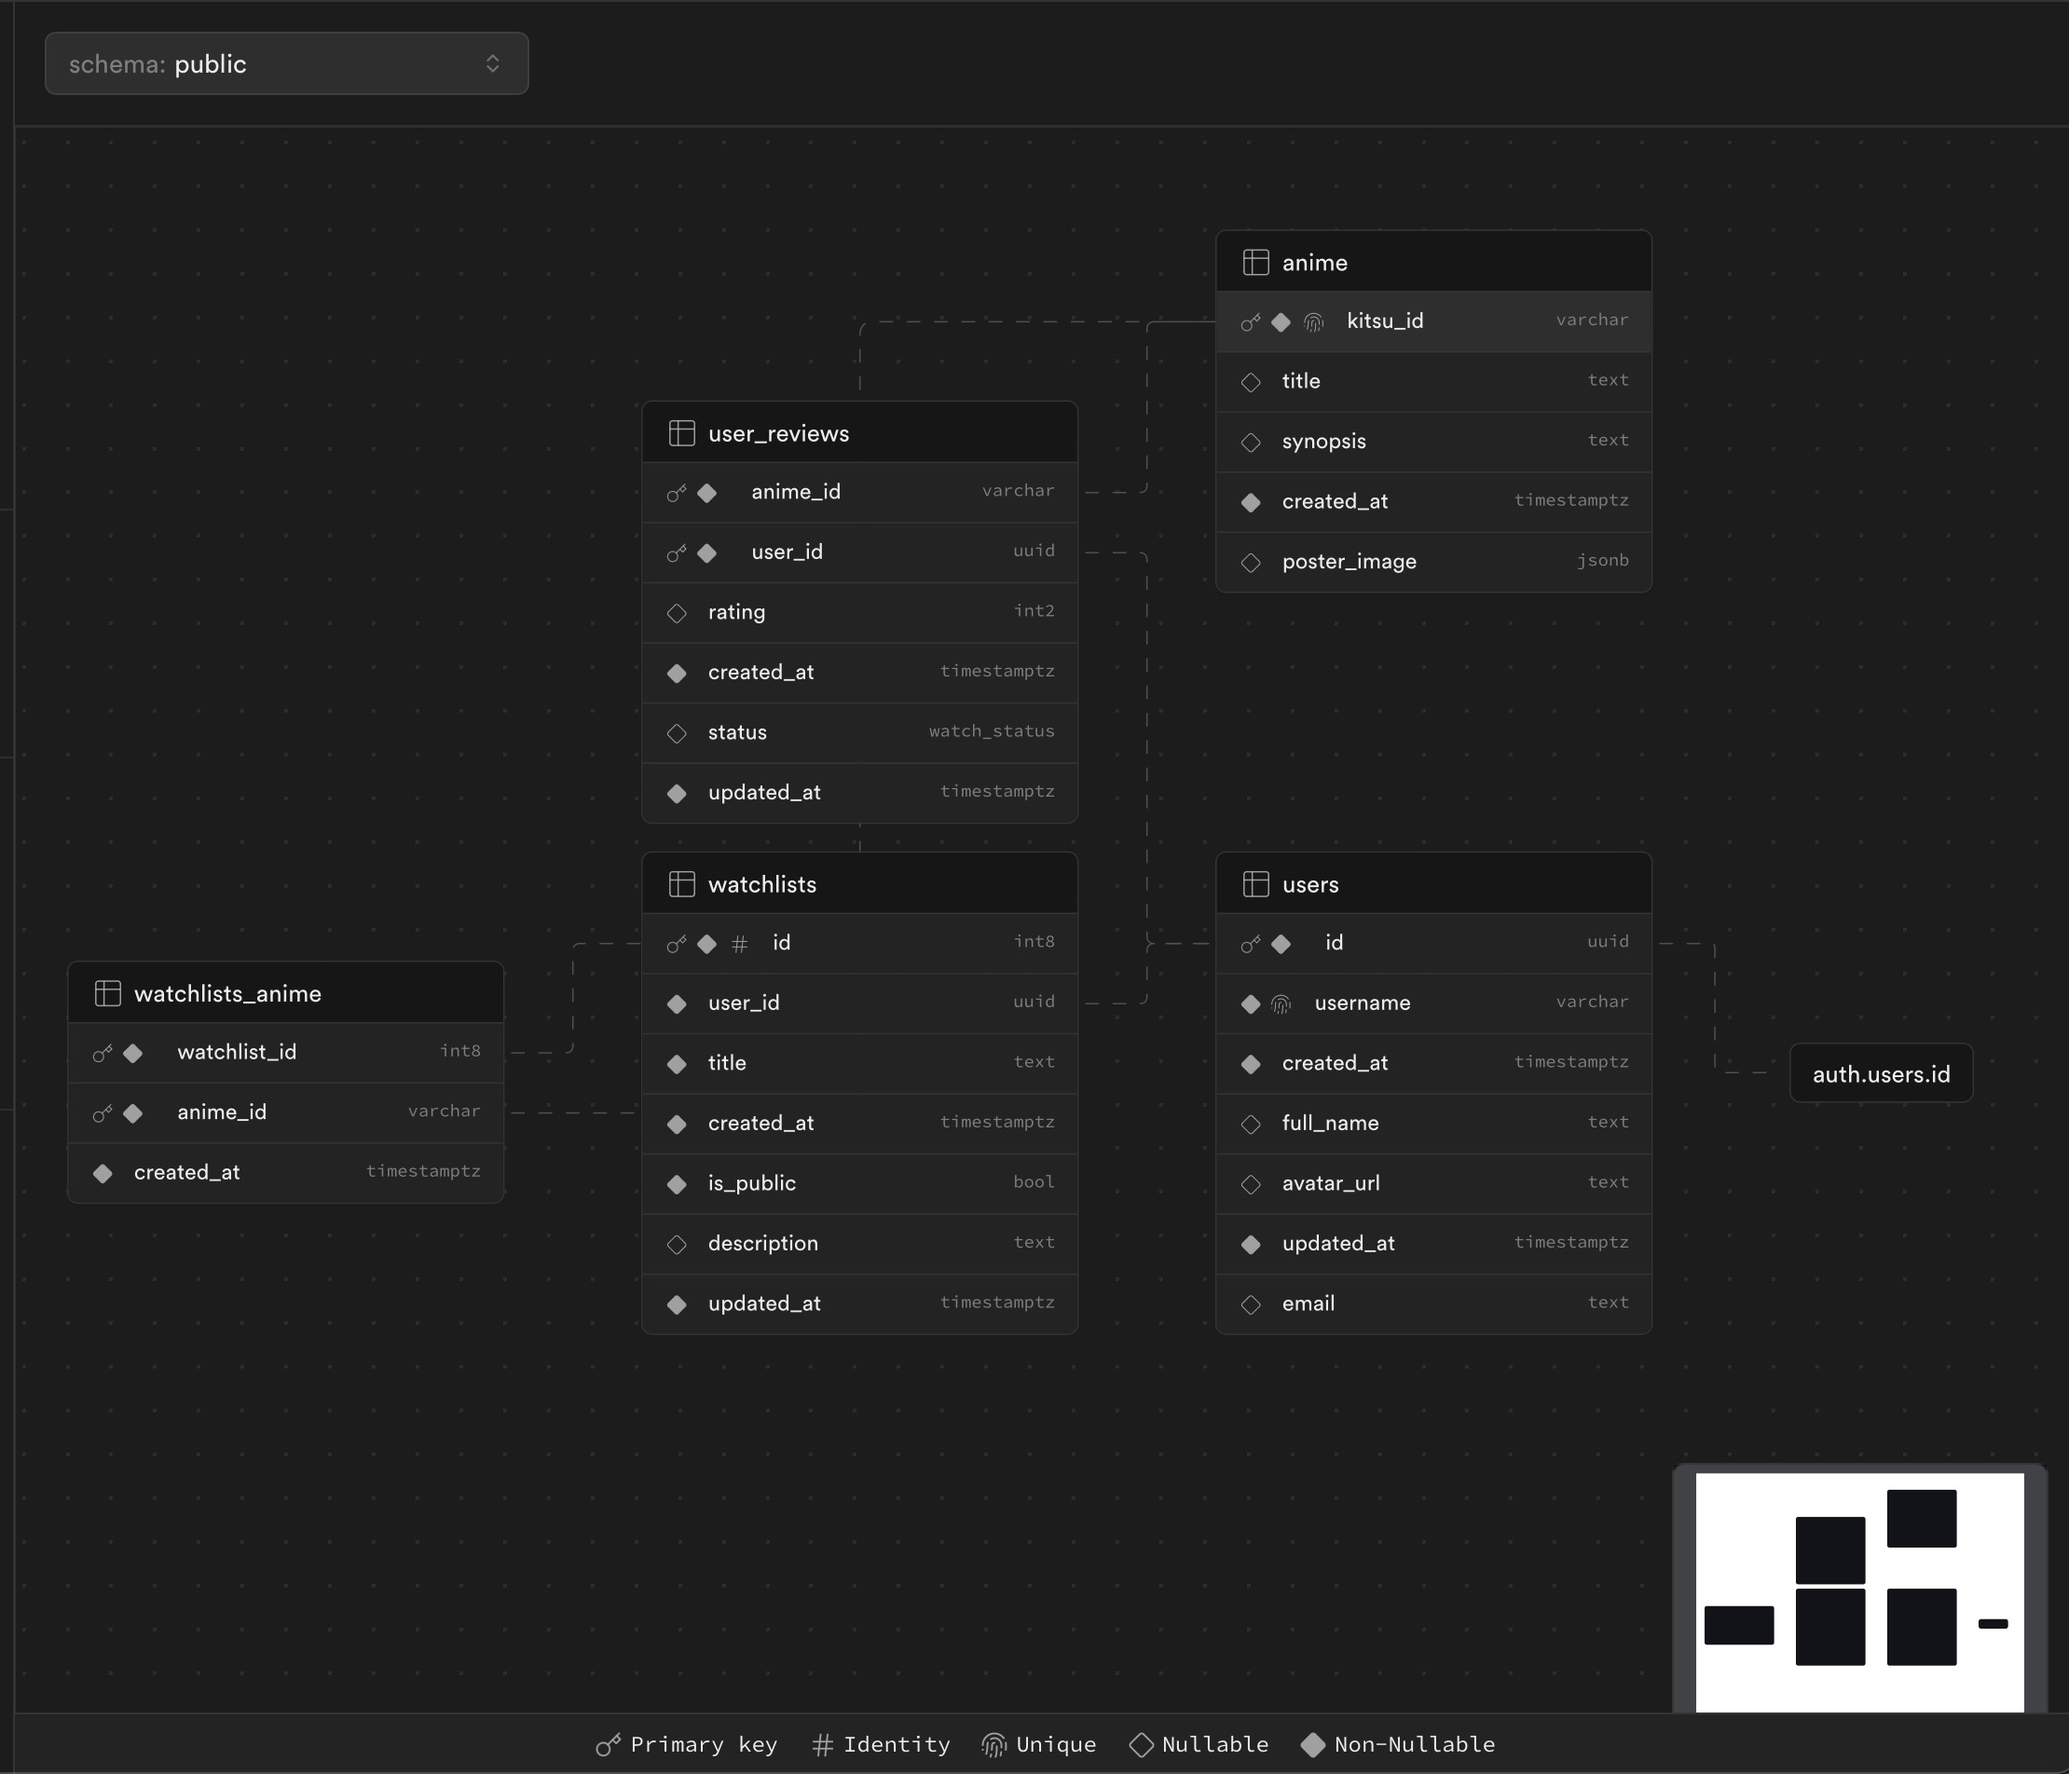
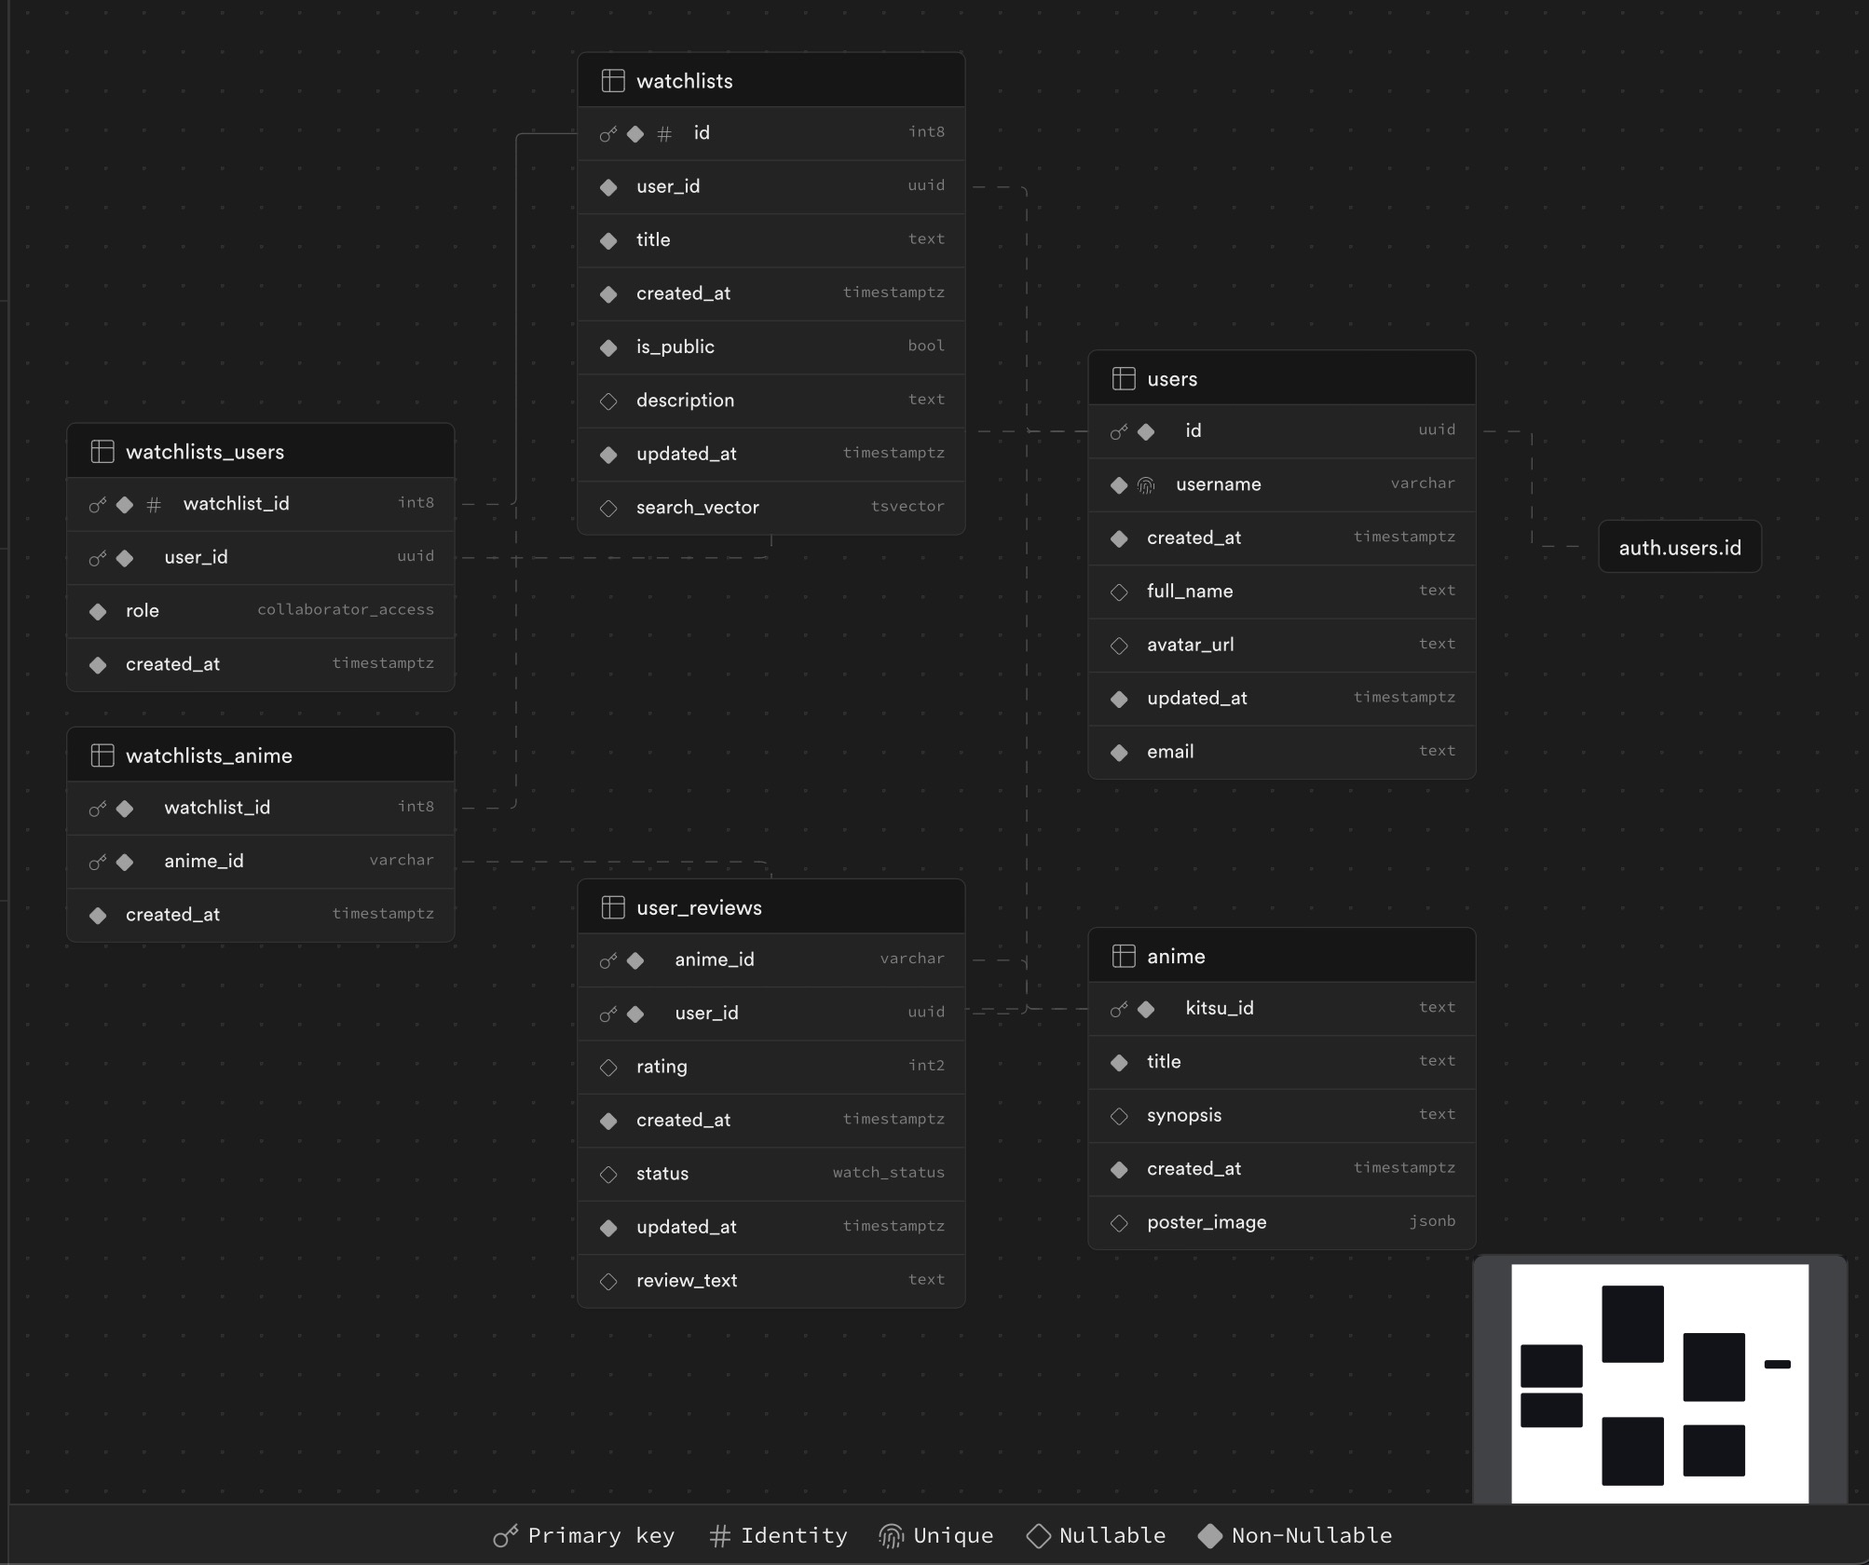
chore: update supabase packages and usage in README

diff --git a/README.md b/README.md
@@ -31,7 +31,7 @@ This also includes a RESTful CRUD API for the following resources:
   - [x] `PATCH`: (_protected_) Update anime status associated with the user (ratings, watch status)
   - [x] `DELETE`: (_protected_) Remove anime status associated with the user (ratings, watch status)
 - [ ] `/api/watchlists`
-  - [ ] `GET`: Search and return a collection of public watchlists, given query parameters. For an authenticated user, this would include any private watchlists for that specific user as well.
+  - [x] `GET`: Search and return a collection of public watchlists, given query parameters. For an authenticated user, this would include any private watchlists for that specific user as well.
   - [ ] `POST`: (_protected_) Create a new watchlist.
 - [ ] `/api/watchlists/:watchlistId`
   - [x] `GET`: Retrieve the watchlist resource given the associated watchlist id.
@@ -49,13 +49,14 @@ This also includes a RESTful CRUD API for the following resources:
 
 ## Data Schema
 
-This leverages Postgres features extensively, including using JSON validation, row-level security policies, and others. The data schema is as follows:
+This leverages Postgres features extensively, including using JSON validation, row-level security policies, full text search, and others. The data schema is as follows:
 
 - `anime`: Saved anime resources from Kitsu (used to minimize dependency on Kitsu for watchlists)
 - `users`: User profile information that is publicly accessible. Note `id` links to the UUID `auth.users.id` column
 - `user_reviews`: User reviews on anime watch status and ratings
 - `watchlists`: User anime watchlists
 - `watchlists_anime`: Anime added to watchlists
+- `watchlists_users`: Users (collaborators) added to watchlists as `owner`, `editor`, or `viewer`
 
 ![Schema](public/db-schema.jpg)
 
